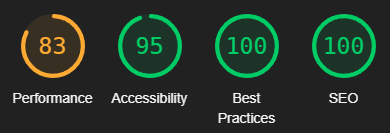
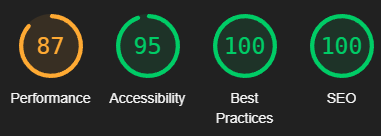
Added testing for 404 page

diff --git a/TESTING.md b/TESTING.md
@@ -21,6 +21,7 @@ Return to the [README.md](README.md) file.
 ### HTML
 
 The recommended [HTML W3C Validator](https://validator.w3.org) was used to validate all HTML files.
+The 404 page was tested by direct input because the validator received a 404 error.
 
 | Page           | Screenshot                                                                          | Notes           |
 | -------------- | ----------------------------------------------------------------------------------- | --------------- |
@@ -35,6 +36,7 @@ The recommended [HTML W3C Validator](https://validator.w3.org) was used to valid
 | Sign Up        | ![screenshot](documentation\readme\testing\html-validation\signup-html.png)         | Pass: No Errors |
 | Login          | ![screenshot](documentation\readme\testing\html-validation\login-html.png)          | Pass: No Errors |
 | Logout         | ![screenshot](documentation\readme\testing\html-validation\logout-html.png)         | Pass: No Errors |
+| 404            | ![screenshot](documentation\readme\testing\html-validation\404-html.png)            | Pass: No Errors |
 
 ### CSS
 
@@ -79,6 +81,10 @@ The only errors returned were 'line too long' errors which have been excluded fr
 ### Lighthouse
 
 All pages were checked with lighthouse to identify any issues. Each page was checked in mobile and desktop sizes.
+Add Post page 'Accessibility' is related to the Summernote field iFrame not having a title.
+404 page 'Best Practices' and 'SEO' are lower due to the 404 error.
+When trying to get lighthouse scores, I kept getting different values even when immediately running the test again. 
+
 
 | Page           | Size    | Screenshot                                                                                   |
 | -------------- | ------- | -------------------------------------------------------------------------------------------- |
@@ -86,6 +92,8 @@ All pages were checked with lighthouse to identify any issues. Each page was che
 | Index          | Mobile  | ![screenshot](documentation\readme\testing\lighthouse\lighthouse-index-mobile.png)           |
 | Posts          | Desktop | ![screenshot](documentation\readme\testing\lighthouse\lighthouse-posts-desktop.png)          |
 | Posts          | Mobile  | ![screenshot](documentation\readme\testing\lighthouse\lighthouse-posts-mobile.png)           |
+| Post Detail    | Desktop | ![screenshot](documentation\readme\testing\lighthouse\lighthouse-post-detail-desktop.png)    |
+| Post Detail    | Mobile  | ![screenshot](documentation\readme\testing\lighthouse\lighthouse-post-detail-mobile.png)     |
 | Add Post       | Desktop | ![screenshot](documentation\readme\testing\lighthouse\lighthouse-add-post-desktop.png)       |
 | Add Post       | Mobile  | ![screenshot](documentation\readme\testing\lighthouse\lighthouse-add-post-mobile.png)        |
 | Edit Post      | Desktop | ![screenshot](documentation\readme\testing\lighthouse\lighthouse-edit-post-desktop.png)      |
@@ -102,6 +110,8 @@ All pages were checked with lighthouse to identify any issues. Each page was che
 | Sign Up        | Desktop | ![screenshot](documentation\readme\testing\lighthouse\lighthouse-signup-mobile.png)          |
 | Logout         | Desktop | ![screenshot](documentation\readme\testing\lighthouse\lighthouse-logout-desktop.png)         |
 | Logout         | Mobile  | ![screenshot](documentation\readme\testing\lighthouse\lighthouse-logout-mobile.png)          |
+| 404            | Desktop | ![screenshot](documentation\readme\testing\lighthouse\lighthouse-404-desktop.png)            |
+| 404            | Mobile  | ![screenshot](documentation\readme\testing\lighthouse\lighthouse-404-mobile.png)             |
 
 ## MANUAL TESTING
 
@@ -126,6 +136,9 @@ Full responsive testing was performed on mobile, tablet, and desktop following d
 | Sign up     | Desktop | ![screenshot](documentation\readme\responsiveness\desktop\sign-up-desktop.png)     |
 | Sign up     | Tablet  | ![screenshot](documentation\readme\responsiveness\tablet\sign-up-tablet.png)       |
 | Sign up     | Mobile  | ![screenshot](documentation\readme\responsiveness\mobile\sign-up-mobile.png)       |
+| 404         | Desktop | ![screenshot](documentation\readme\responsiveness\desktop\404-desktop.png)         |
+| 404         | Tablet  | ![screenshot](documentation\readme\responsiveness\tablet\404-tablet.png)           |
+| 404         | Mobile  | ![screenshot](documentation\readme\responsiveness\mobile\404-mobile.png)           |
 
 ### Defensive Programming
 
@@ -206,6 +219,8 @@ Defensive programming was manually tested with the below user acceptance testing
 |                                                | Enter a passwords that is less than 8 characters    | An error message is displayed                                                       | Pass      |          |
 |                                                | Try to sign up with an existing user/email          | An error message is displayed                                                       | Pass      |          |
 |                                                | Enter valid information                             | Successful, user redirected to index page and logged in                             | Pass      |          |
+| **404 page**                                   |                                                     |                                                                                     |           |          |
+|                                                | Click Home button                                   | User is redirected to the Index page                                                | Pass      |          |
 
 ### User Story Testing
 
